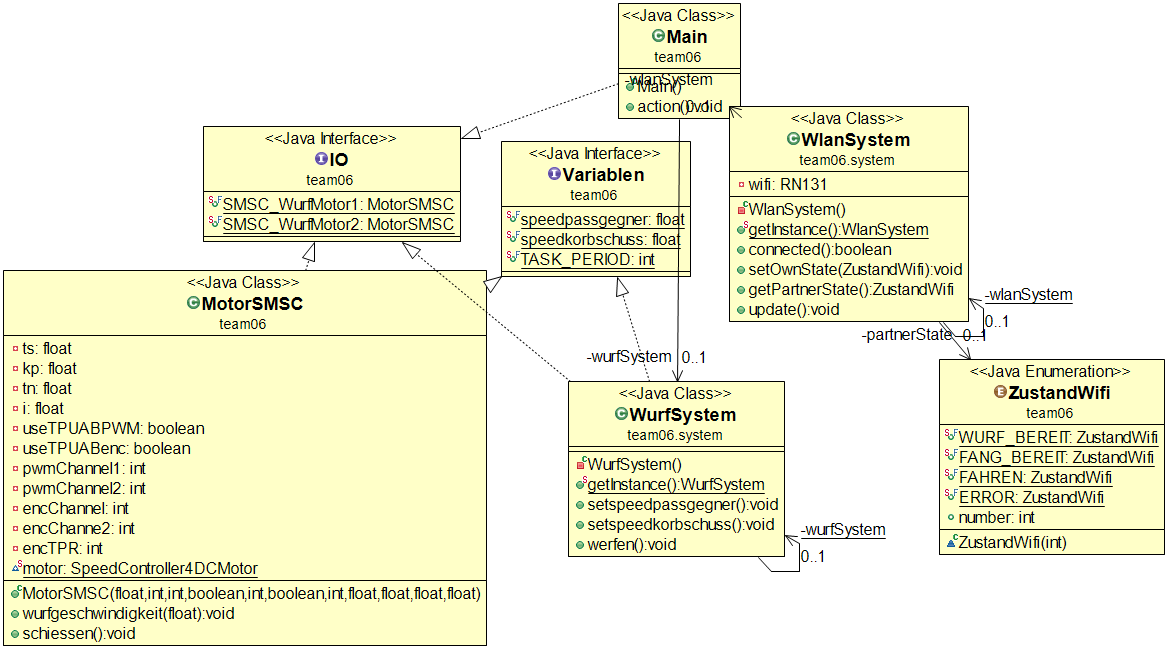
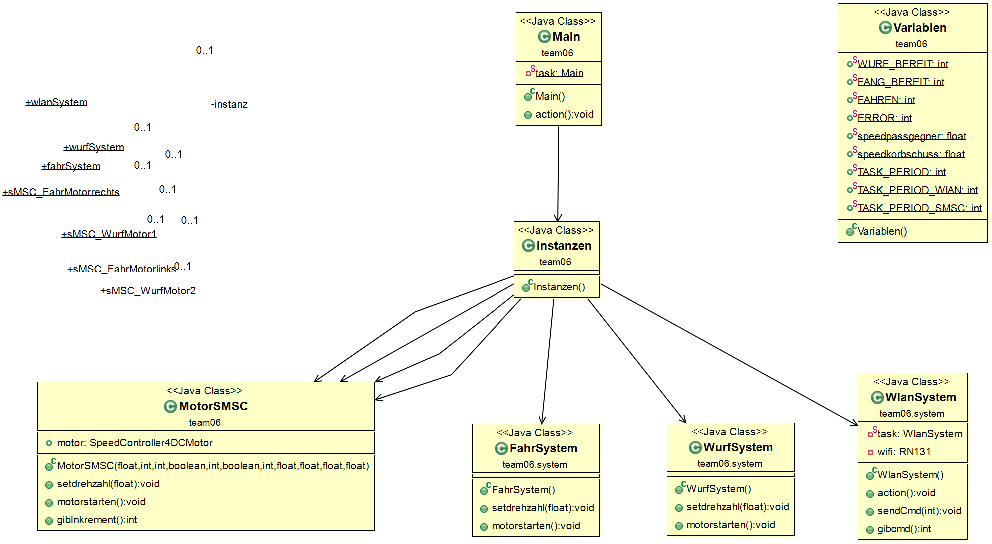
Main, System, Diagramm

diff --git a/src/team06/Instanzen.java b/src/team06/Instanzen.java
@@ -19,11 +19,18 @@ public class Instanzen {
 	public static MotorSMSC sMSC_WurfMotor1 = new MotorSMSC(0.001f, 0, 1, true, 2, true, 64, 12f, 3249f / 196f, 1f,
 			0.01f); // frequenz an task anpassen (1.zahl)
 	public static MotorSMSC sMSC_WurfMotor2 = new MotorSMSC(0.001f, 0, 1, true, 2, true, 64, 12f, 3249f / 196f, 1f,
-			0.01f);
-
-// Wurfsystem erzeugen
-	public static WlanSystem wlanSystem = new WlanSystem ();
-	public static WurfSystem wurfSystem = new WurfSystem();
+			0.01f); // frequenz an task anpassen (1.zahl)
 	
+	// Motoren Fahrsystem erzeugen
+	public static MotorSMSC sMSC_FahrMotorlinks = new MotorSMSC(0.001f, 0, 1, true, 2, true, 64, 12f, 3249f / 196f, 1f,
+			0.01f); // frequenz an task anpassen (1.zahl)
+	public static MotorSMSC sMSC_FahrMotorrechts = new MotorSMSC(0.001f, 0, 1, true, 2, true, 64, 12f, 3249f / 196f, 1f,
+			0.01f); // frequenz an task anpassen (1.zahl)
+	
+
+	// Wurfsystem erzeugen
+	public static WlanSystem wlanSystem = new WlanSystem();
+	public static WurfSystem wurfSystem = new WurfSystem();
+	public static FahrSystem fahrSystem = new FahrSystem();
 
 }

diff --git a/src/team06/Variablen.java b/src/team06/Variablen.java
@@ -6,17 +6,19 @@ package team06;
 
 import ch.ntb.inf.deep.runtime.mpc555.driver.TPU_PWM;
 
-public interface Variablen
-{
-	
-	
-	static float speedpassgegner = 1;   // in s^-1 (Radiant)
-	static float speedkorbschuss = 1;	// in s^-1 (Radiant)
-	
-	
-	static int TASK_PERIOD = 200;
-	static int TASK_PERIOD_WlAN = 500;
-	static int TASK_PERIOD_SMSC = 500;
-	
+public class Variablen {
+
+	// Kommunikation / Zustand Wifi
+	public static int WURF_BEREIT = 0;
+	public static int FANG_BEREIT = 1;
+	public static int FAHREN = 2;
+	public static int ERROR = 3;
+
+	public static float speedpassgegner = 1; // in s^-1 (Radiant)
+	public static float speedkorbschuss = 1; // in s^-1 (Radiant)
+
+	public static int TASK_PERIOD = 200;
+	public static int TASK_PERIOD_WlAN = 500;
+	public static int TASK_PERIOD_SMSC = 500;
 
 }

diff --git a/src/team06/Main.java b/src/team06/Main.java
@@ -12,19 +12,18 @@ import ch.ntb.inf.deep.runtime.ppc32.Task;
 import team06.system.WlanSystem;
 import team06.system.WurfSystem;
 
-public class Main extends Task{
-	
+public class Main extends Task {
+	private static Main task;
+
 	private Instanzen instanz;
 
 	/**
-	 * Konstruktor
-	 * Instanz erzugen
+	 * Konstruktor Instanz erzugen
 	 */
 	public Main() {
-		
+
 		instanz = new Instanzen();
-		
-		
+
 	}
 
 	/**
@@ -33,6 +32,7 @@ public class Main extends Task{
 	public void action() {
 
 		Instanzen.wurfSystem.motorstarten();
+		Instanzen.fahrSystem.motorstarten();
 	}
 
 	/**
@@ -40,7 +40,7 @@ public class Main extends Task{
 	 */
 	static {
 		try {
-			Task task = new Main();
+			task = new Main();
 			task.period = Variablen.TASK_PERIOD;
 			Task.install(task);
 
